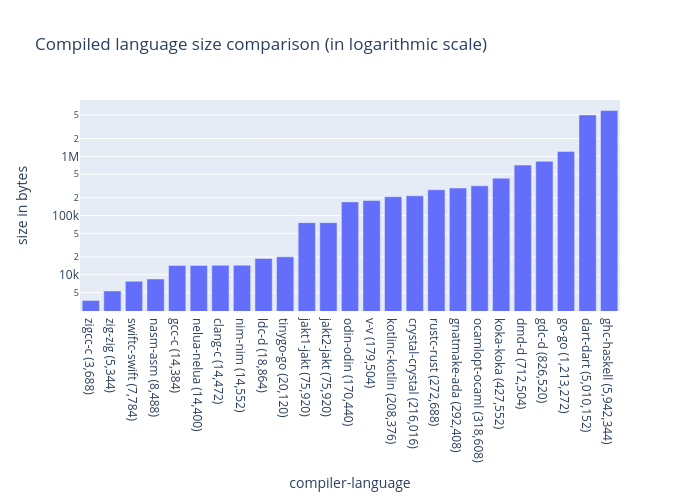
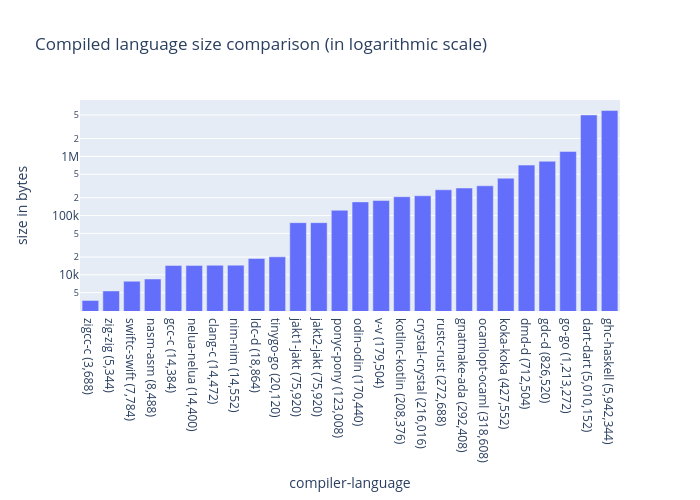
feat: add pony language

Changed region(s): [[0.12, 0.24, 0.87, 0.93]]

diff --git a/README.md b/README.md
@@ -31,6 +31,7 @@ Logarithmic scale:
 |go|tinygo|tinygo version 0.26.0 linux/amd64 (using go version go1.19.2 and LLVM version 14.0.0)|20,120|
 |jakt|jakt1|None|75,920|
 |jakt|jakt2|None|75,920|
+|pony|ponyc|0.43.1- [release]|123,008|
 |odin|odin|odin version dev-2022-10:2cd895c5|170,440|
 |v|v|V 0.3.1 f2f6ea5|179,504|
 |kotlin|kotlinc|Kotlin/Native: 1.7.10|208,376|
